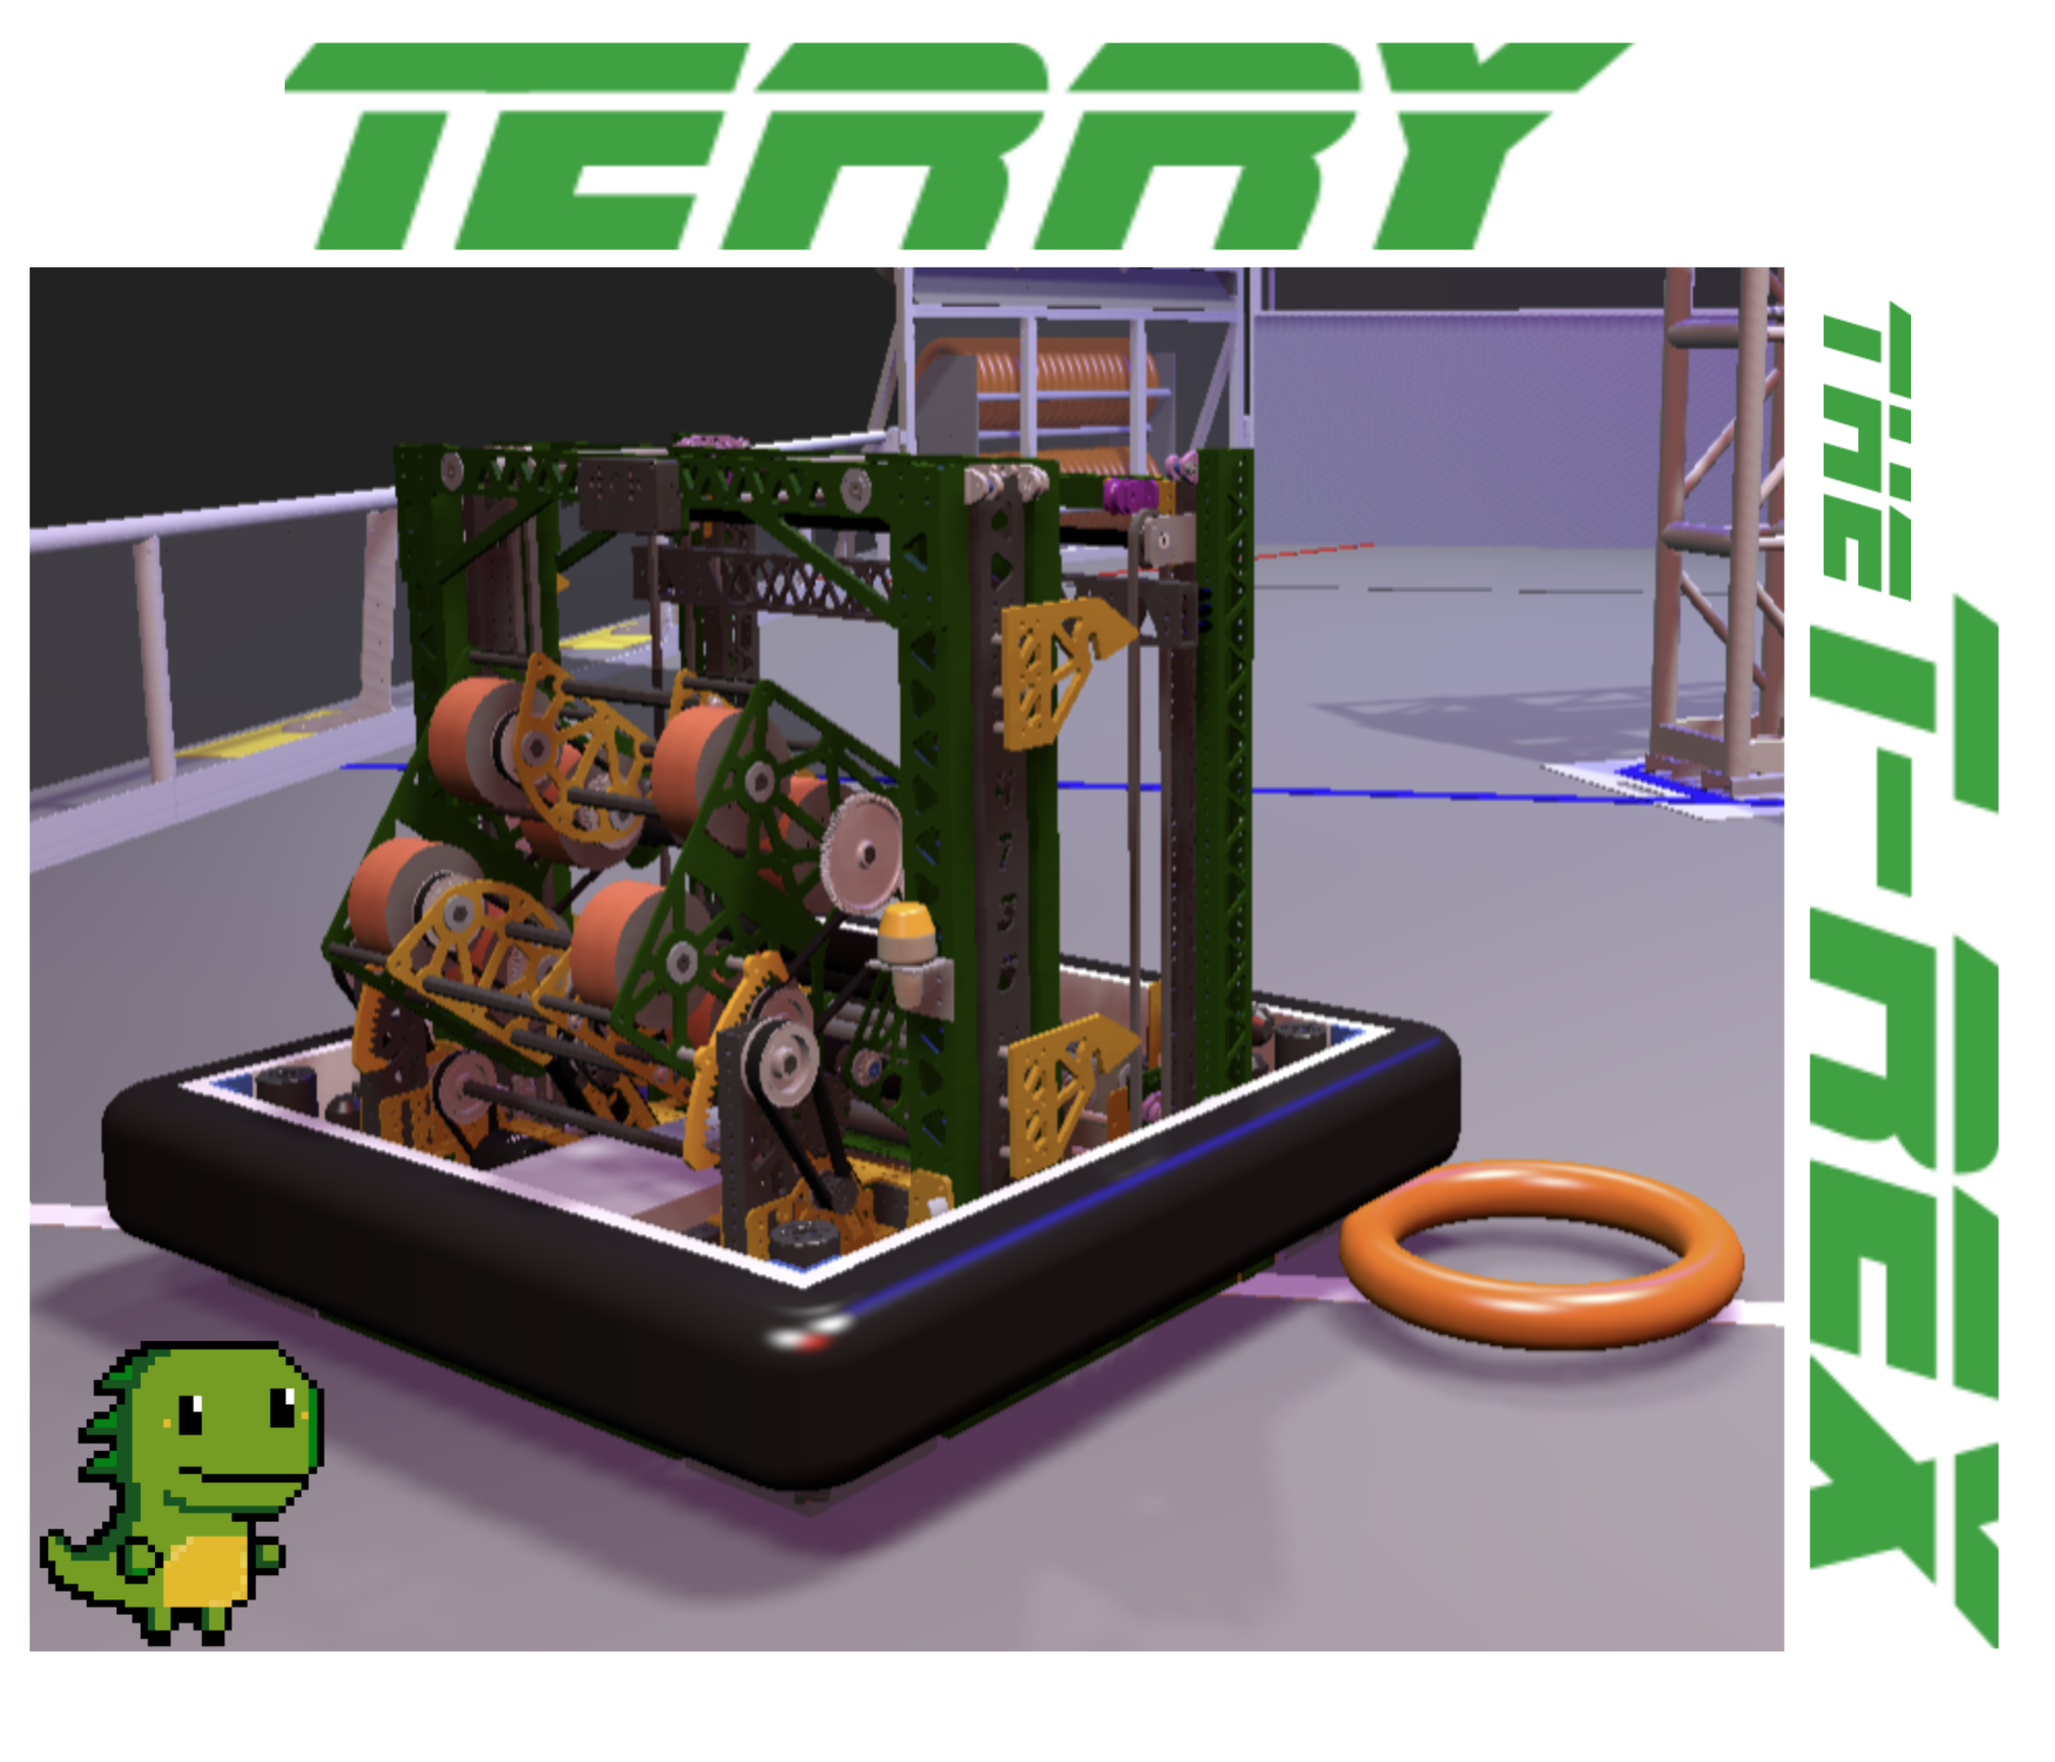
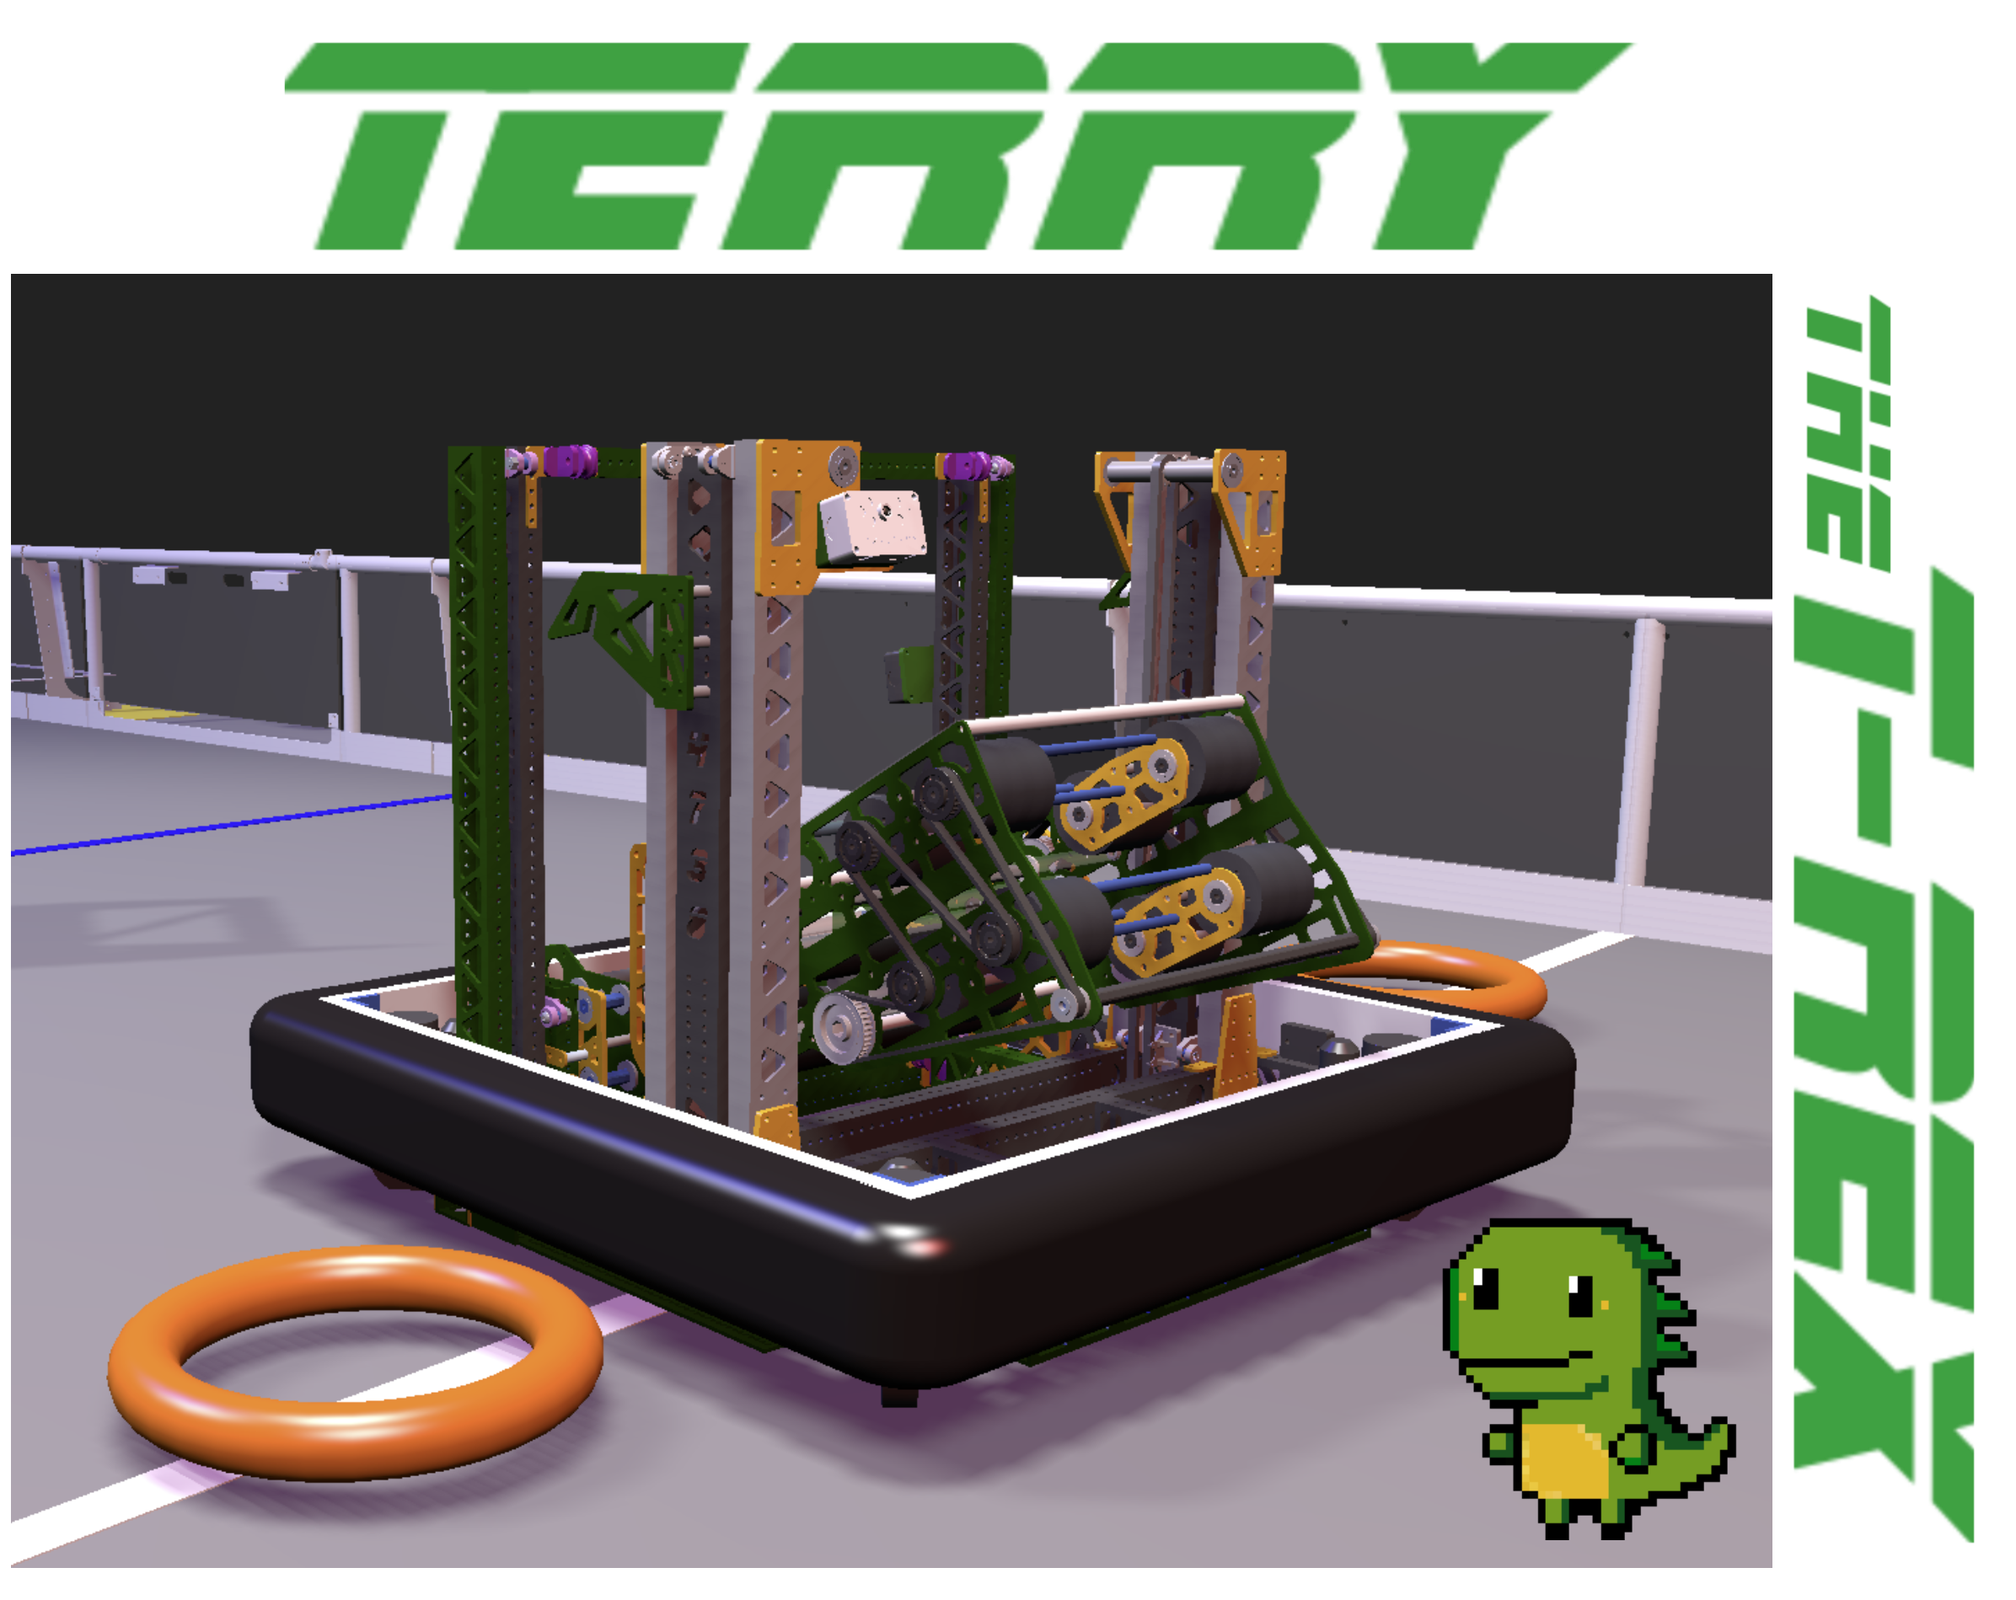
o terry, my terry, you are looking quite spiffy today

diff --git a/src/main/java/frc/robot/subsystems/Pivot.java b/src/main/java/frc/robot/subsystems/Pivot.java
@@ -30,6 +30,8 @@ public class Pivot extends SubsystemBase implements Logged {
             false, 
             true);
 		configMotor();
+		if (FieldConstants.IS_SIMULATION) 
+			setAngle(ShooterConstants.PIVOT_LOWER_LIMIT_DEGREES);
 	}
 
 	public void configMotor() {

diff --git a/README.md b/README.md
@@ -87,7 +87,7 @@ ___
 
 
 ## Teleoperated 🎮
-  <img src="images/sim/betterAmp.png" width="40%" />
+  <img src="images/sim/amp.png" width="40%" />
 
 ###  <img src= "images/surelyanote.png" width="2.5%" />  Joystick Axis Remapping
  > We use Xbox controllers to control the robot. However, the range of the joystick axis from the Xbox controller is the shape of a skewed square with chamfered edges which is preferable for usage. In PatriBoxController, we remapped the range of input to a circle that is easier to use. Here's our [desmos](https://www.desmos.com/calculator/e07raajzh5) if you want to check out the math!
